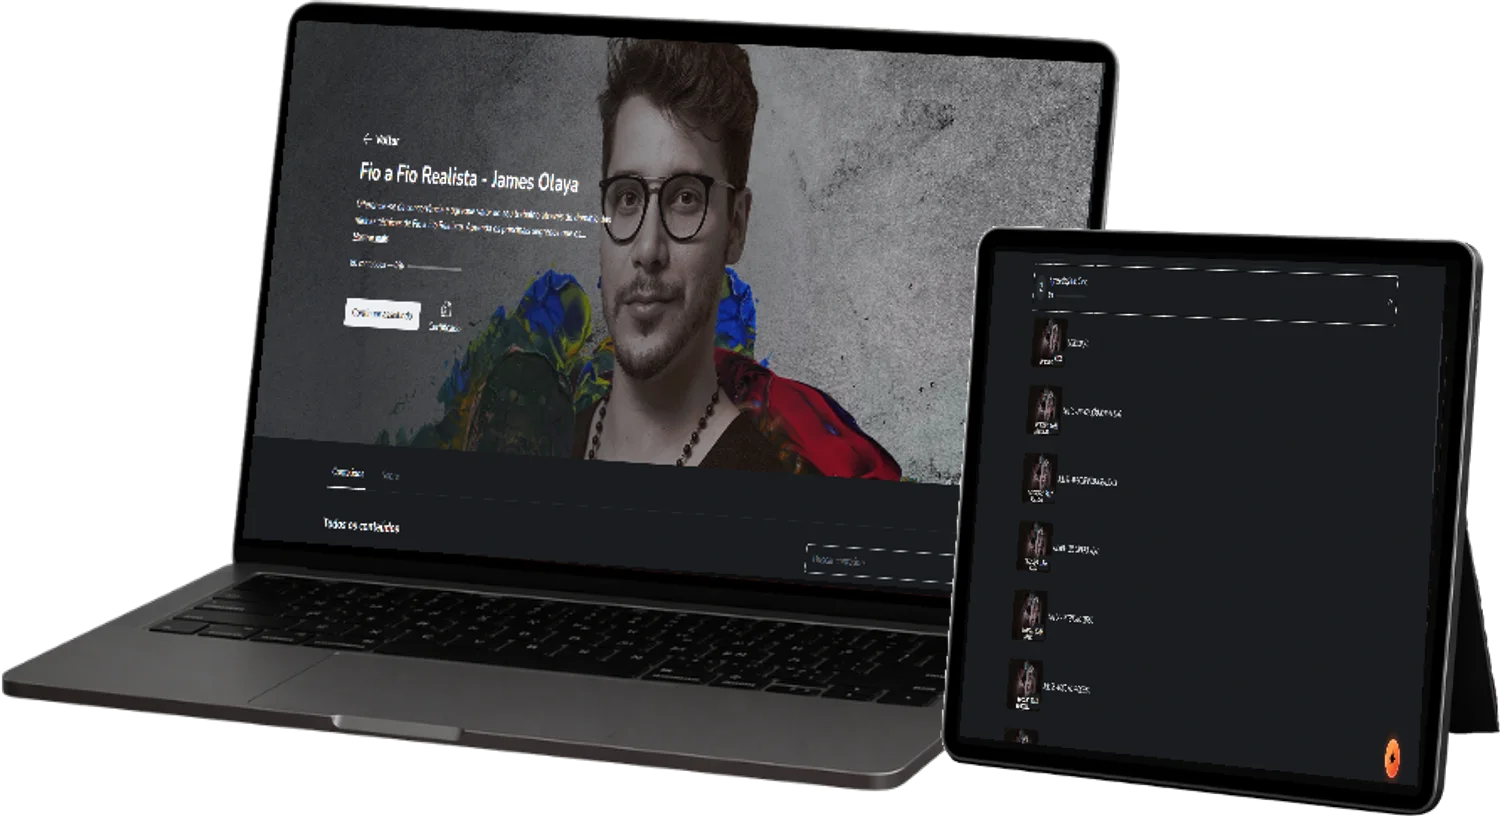
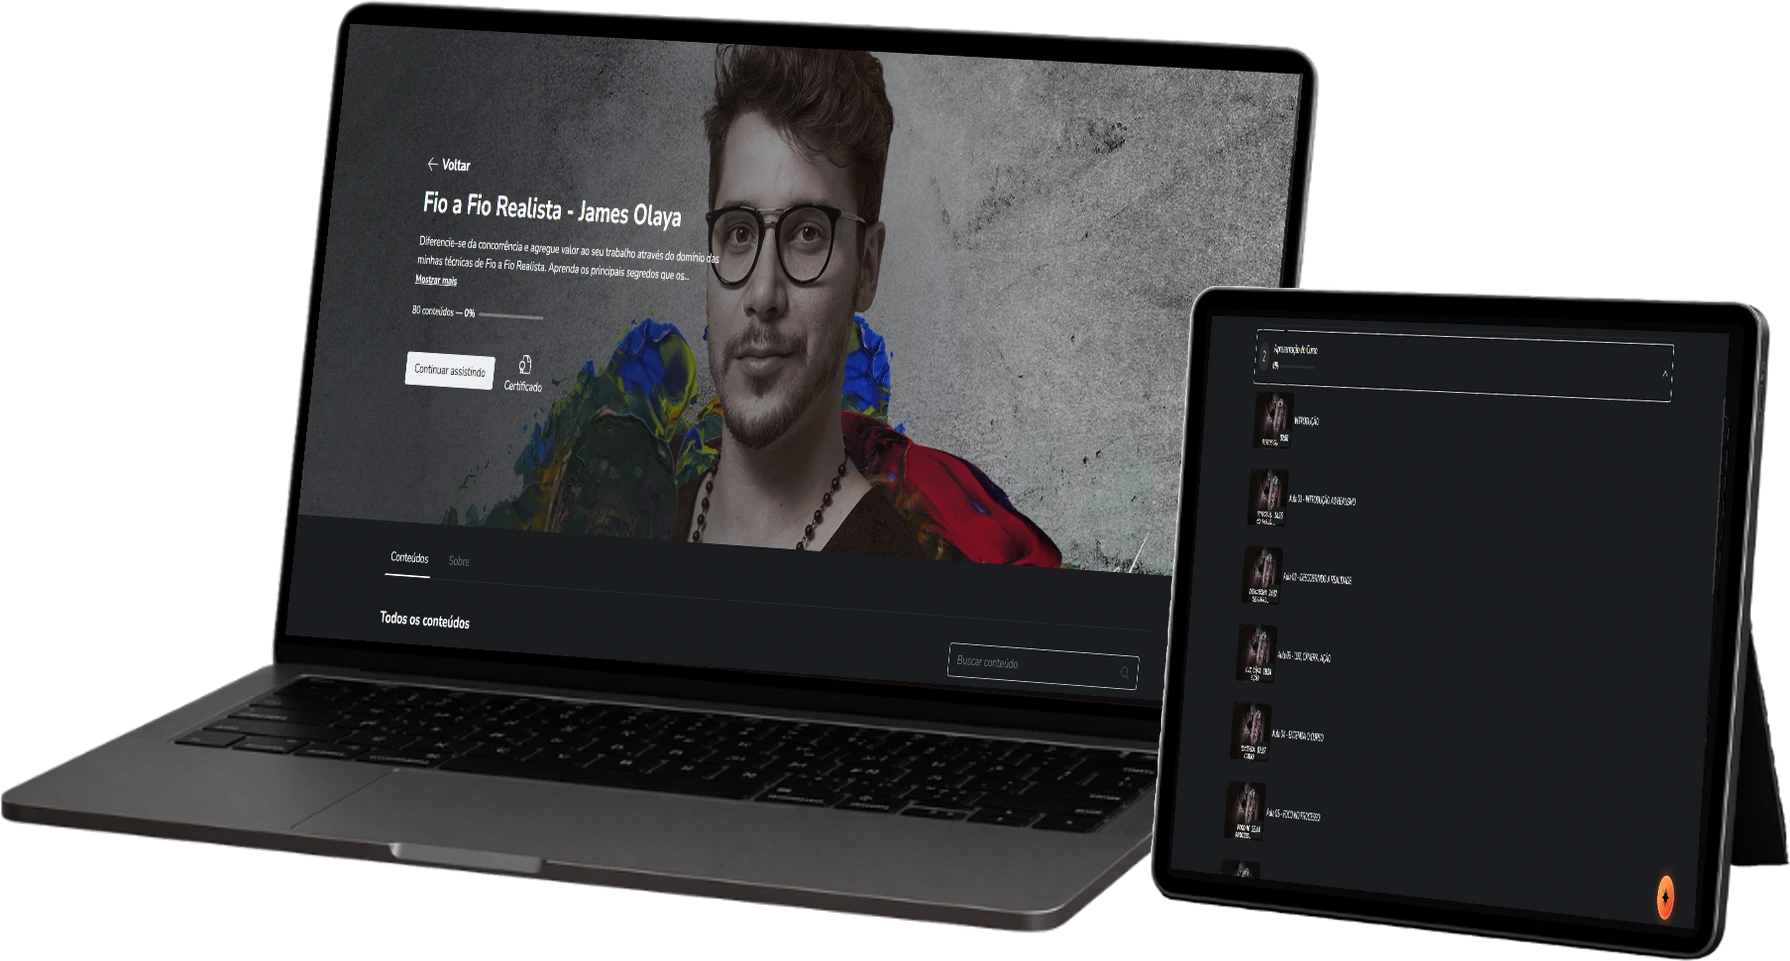
Secao acesso: layout 2 colunas, imagem 2x nitida, fundo unico
- Layout em 2 colunas (texto+lista a esquerda, devices a direita) pra
  diferenciar da secao do certificado.
- Devices re-renderizados em 2x (tela nitida, sem pixelizacao) e webp q92.
- Fundo identico ao do certificado (gradiente + brilho roxo topo-direita);
  removido glow/variacao de paleta.

diff --git a/lp-html/metodo-fio-a-fio-by-james-olaya.html b/lp-html/metodo-fio-a-fio-by-james-olaya.html
@@ -1832,37 +1832,44 @@ no  <span style="color: #F666A9";>Fio a Fio Realista</span>?</h2>				</div>
 <!-- ===== FIM SEÇÃO CERTIFICADO ===== -->
 				<!-- ===== SEÇÃO ACESSO (redesign) ===== -->
 <style>
+/* mesmo fundo da seção do certificado (.ffr-cert) — paleta única */
 .ffr-dev{position:relative;font-family:'Poppins',system-ui,sans-serif;background:radial-gradient(125% 120% at 50% 0%,#16121d 0%,#0d0a12 48%,#070509 100%);padding:clamp(70px,9vw,108px) 20px;overflow:hidden;}
-.ffr-dev::before{content:"";position:absolute;top:-160px;left:-90px;width:560px;height:560px;background:radial-gradient(closest-side,rgba(168,85,247,.16),transparent 70%);pointer-events:none;}
-.ffr-dev__wrap{position:relative;z-index:2;max-width:1080px;margin:0 auto;text-align:center;}
-.ffr-dev__eyebrow{display:inline-flex;align-items:center;gap:12px;color:#d6b6ff;font-size:12.5px;font-weight:600;letter-spacing:.3em;text-transform:uppercase;margin:0 0 18px;}
-.ffr-dev__eyebrow::before,.ffr-dev__eyebrow::after{content:"";width:30px;height:1.5px;}
-.ffr-dev__eyebrow::before{background:linear-gradient(90deg,transparent,#a855f7);}
-.ffr-dev__eyebrow::after{background:linear-gradient(90deg,#a855f7,transparent);}
-.ffr-dev__title{margin:0;color:#fff;font-weight:800;font-size:clamp(31px,4.6vw,56px);line-height:1.04;letter-spacing:-.015em;}
+.ffr-dev::before{content:"";position:absolute;top:-180px;right:-90px;width:560px;height:560px;background:radial-gradient(closest-side,rgba(168,85,247,.16),transparent 70%);pointer-events:none;}
+.ffr-dev__wrap{position:relative;z-index:2;max-width:1180px;margin:0 auto;display:grid;grid-template-columns:.92fr 1.08fr;gap:clamp(32px,5vw,64px);align-items:center;}
+.ffr-dev__text{min-width:0;}
+.ffr-dev__eyebrow{display:inline-flex;align-items:center;gap:11px;color:#d6b6ff;font-size:12.5px;font-weight:600;letter-spacing:.3em;text-transform:uppercase;margin:0 0 16px;}
+.ffr-dev__eyebrow::before{content:"";width:30px;height:1.5px;background:linear-gradient(90deg,#a855f7,transparent);}
+.ffr-dev__title{margin:0;color:#fff;font-weight:800;font-size:clamp(30px,4.2vw,52px);line-height:1.05;letter-spacing:-.015em;}
 .ffr-dev__title b{font-weight:800;background:linear-gradient(92deg,#f5a8e0,#c084fc 55%,#a855f7);-webkit-background-clip:text;background-clip:text;color:transparent;}
-.ffr-dev__sub{max-width:600px;margin:20px auto 0;color:#d8cfe6;font-size:clamp(15px,1.7vw,18px);line-height:1.62;font-weight:400;}
-.ffr-dev__stage{position:relative;margin-top:clamp(34px,5vw,56px);display:flex;justify-content:center;align-items:center;}
-.ffr-dev__glow{position:absolute;left:50%;top:54%;width:min(820px,94%);height:74%;transform:translate(-50%,-50%);background:radial-gradient(closest-side,rgba(168,85,247,.20),rgba(245,168,224,.07) 48%,transparent 72%);pointer-events:none;}
-.ffr-dev__img{position:relative;display:block;width:min(960px,100%);height:auto;filter:drop-shadow(0 40px 70px rgba(0,0,0,.55));}
-.ffr-dev__facts{margin-top:clamp(34px,4.5vw,48px);display:flex;flex-wrap:wrap;justify-content:center;align-items:center;gap:13px 24px;}
-.ffr-dev__facts span{display:inline-flex;align-items:center;gap:10px;color:#cfc7de;font-size:14.5px;font-weight:500;letter-spacing:.01em;}
-.ffr-dev__facts span::before{content:"";width:6px;height:6px;border-radius:50%;background:linear-gradient(180deg,#f5a8e0,#a855f7);box-shadow:0 0 9px rgba(168,85,247,.6);}
-@media(max-width:600px){.ffr-dev__facts{gap:11px 18px;}.ffr-dev__facts span{font-size:13px;}}
+.ffr-dev__sub{margin:18px 0 0;color:#d8cfe6;font-size:clamp(15px,1.6vw,17.5px);line-height:1.62;font-weight:400;max-width:440px;}
+.ffr-dev__facts{margin:28px 0 0;display:flex;flex-direction:column;gap:13px;}
+.ffr-dev__facts span{display:inline-flex;align-items:center;gap:12px;color:#e3d9f2;font-size:15px;font-weight:500;}
+.ffr-dev__facts span::before{content:"";flex:0 0 auto;width:7px;height:7px;border-radius:50%;background:linear-gradient(180deg,#f5a8e0,#a855f7);box-shadow:0 0 9px rgba(168,85,247,.6);}
+.ffr-dev__media{position:relative;min-width:0;}
+.ffr-dev__media::before{content:"";position:absolute;left:50%;top:52%;width:96%;height:80%;transform:translate(-50%,-50%);background:radial-gradient(closest-side,rgba(168,85,247,.18),rgba(245,168,224,.05) 50%,transparent 72%);pointer-events:none;}
+.ffr-dev__img{position:relative;display:block;width:100%;height:auto;filter:drop-shadow(0 40px 70px rgba(0,0,0,.55));}
+@media(max-width:860px){
+  .ffr-dev__wrap{grid-template-columns:1fr;gap:32px;text-align:center;}
+  .ffr-dev__eyebrow{justify-content:center;}
+  .ffr-dev__sub{margin-left:auto;margin-right:auto;}
+  .ffr-dev__facts{align-items:center;}
+  .ffr-dev__media{order:1;}
+}
 </style>
 <section class="ffr-dev" id="ffr-acesso">
   <div class="ffr-dev__wrap">
-    <p class="ffr-dev__eyebrow">Acesso online</p>
-    <h2 class="ffr-dev__title">Estude de onde quiser,<br><b>no seu ritmo</b></h2>
-    <p class="ffr-dev__sub">Toda a formação Fio a Fio Realista fica disponível pra você — assista no computador, no tablet ou no celular, quando e onde quiser.</p>
-    <div class="ffr-dev__stage">
-      <div class="ffr-dev__glow"></div>
-      <img class="ffr-dev__img" src="/lp/fio-a-fio-realista/devices-acesso.webp" alt="Plataforma Jay Academy do curso Fio a Fio Realista no computador e no tablet" width="1500" height="816" decoding="async" loading="lazy">
+    <div class="ffr-dev__text">
+      <p class="ffr-dev__eyebrow">Acesso online</p>
+      <h2 class="ffr-dev__title">Estude de onde quiser,<br><b>no seu ritmo</b></h2>
+      <p class="ffr-dev__sub">Toda a formação Fio a Fio Realista fica disponível pra você — no computador, no tablet ou no celular, quando e onde quiser.</p>
+      <div class="ffr-dev__facts">
+        <span>Acesso 100% online</span>
+        <span>Assista quando quiser</span>
+        <span>De qualquer dispositivo</span>
+      </div>
     </div>
-    <div class="ffr-dev__facts">
-      <span>Acesso 100% online</span>
-      <span>Assista quando quiser</span>
-      <span>De qualquer dispositivo</span>
+    <div class="ffr-dev__media">
+      <img class="ffr-dev__img" src="/lp/fio-a-fio-realista/devices-acesso.webp" alt="Plataforma Jay Academy do curso Fio a Fio Realista no computador e no tablet" width="1790" height="961" decoding="async" loading="lazy">
     </div>
   </div>
 </section>
